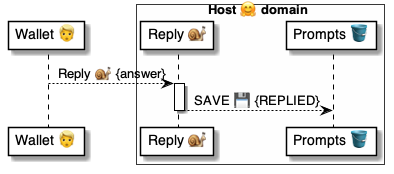
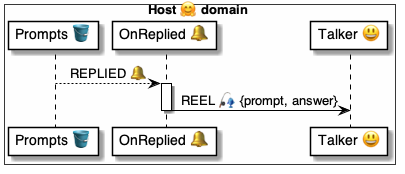
.

diff --git a/4 ⚙ Solution/41 🎭 Domain Roles/Hosts 🤗/🤗🅰 Host methods/Reply 🧑🦰🐌🤗/🤗 Reply 📃 handler.md b/4 ⚙ Solution/41 🎭 Domain Roles/Hosts 🤗/🤗🅰 Host methods/Reply 🧑🦰🐌🤗/🤗 Reply 📃 handler.md
@@ -5,9 +5,20 @@
 [`Prompt@Host`](<../../🤗🧩 Host schemas/🧩 HOST.md>)
 -->
 
-# 🤗📃 Reply
+# 🤗 Reply@Host 📃 handler
 
-> Implements the [`Reply@Host` 🅰 method](<🤗 Reply 🐌 msg.md>)
+> About
+* Part of the [Host 🤗 domain](<../../🤗 Host role/🤗🎭 Host role.md>) role
+* Implements the [`Reply@Host` 🅰 method](<🤗 Reply 🐌 msg.md>)
+* Triggers the [`OnHostPromptReplied` 📃 handler](<../../🤗🪣 Host tables/Prompts 🤔 table/🪣🔔 14 Replied/🤗 OnHostPromptReplied 🔔 handler.md>)
+
+<br/>
+
+## Diagrams
+
+![alt text](<🤗 Reply ⚙ uml.png>)
+
+<br/>
 
 ## Script
 
@@ -28,15 +39,16 @@
 
 # Verify the message
 - VERIFY|$.Msg:
-    Key: $prompt.PublicKey
+    Key: $prompt.Chat.PublicKey
 
 # Set the result
 - SAVE|$prompt:
-    Result: $.Msg.Result
-    Answer: $.Msg.Answer 
+    $.Msg.Result
+    $.Msg.Answer 
 ```
 
 Uses||
 |-|-
 | [Commands ⌘](<../../../../35 💬 Chats/Scripts 📃/Command ⌘.md>) | [`ASSERT`](<../../../../37 Scripts 📃/📃 Commands ⌘/⌘ for holders 🧠/ASSERT 🚦/🚦 ASSERT ⌘ cmd.md>) [`READ`](<../../../../37 Scripts 📃/📃 Commands ⌘/⌘ for datasets 🪣/READ 🧲/🧲 READ ⌘ cmd.md>) [`SAVE`](<../../../../37 Scripts 📃/📃 Commands ⌘/⌘ for datasets 🪣/SAVE 💾/💾 SAVE ⌘ cmd.md>) [`VERIFY`](<../../../../37 Scripts 📃/📃 Commands ⌘/⌘ for messages 📨/VERIFY 🔐/🔐 VERIFY ⌘ cmd.md>)
+| [Datasets 🪣](<../../../../30 🧩 Data/Datasets 🪣/🪣 Dataset.md>) | [`Host.Prompts`](<../../🤗🪣 Host tables/Prompts 🤔 table/🪣 Prompts/🤗 Host.Prompts 🪣 table.md>) [`Host.Chats`](<../../🤗🪣 Host tables/Chats 💬 table/🪣 Chats/🤗 Host.Chats 🪣 table.md>)
 |

diff --git a/4 ⚙ Solution/41 🎭 Domain Roles/Hosts 🤗/🤗🪣 Host tables/Prompts 🤔 table/🪣🔔 14 Replied/🤗 OnHostPromptReplied 🔔 handler.md b/4 ⚙ Solution/41 🎭 Domain Roles/Hosts 🤗/🤗🪣 Host tables/Prompts 🤔 table/🪣🔔 14 Replied/🤗 OnHostPromptReplied 🔔 handler.md
@@ -1,4 +1,7 @@
 
+> About
+* Reacts to the [`Reply@Host` 📃 handler](<../../../🤗🅰 Host methods/Reply 🧑🦰🐌🤗/🤗 Reply 📃 handler.md>)
+
 ## Diagram
 
 ![alt text](<🤗 OnHostPromptReplied ⚙ uml.png>)

diff --git a/4 ⚙ Solution/41 🎭 Domain Roles/Hosts 🤗/🤗🅰 Host methods/Prompted 🧑🦰🚀🤗/🤗 Prompted 📃 handler.md b/4 ⚙ Solution/41 🎭 Domain Roles/Hosts 🤗/🤗🅰 Host methods/Prompted 🧑🦰🚀🤗/🤗 Prompted 📃 handler.md
@@ -1,6 +1,6 @@
 <!-- TODO: -->
 
-# 🤗📃 Prompted
+# 🤗 Prompted@Host 📃 handler
 
 > About
 * Part of the [Host 🤗 domain](<../../🤗 Host role/🤗🎭 Host role.md>) role
